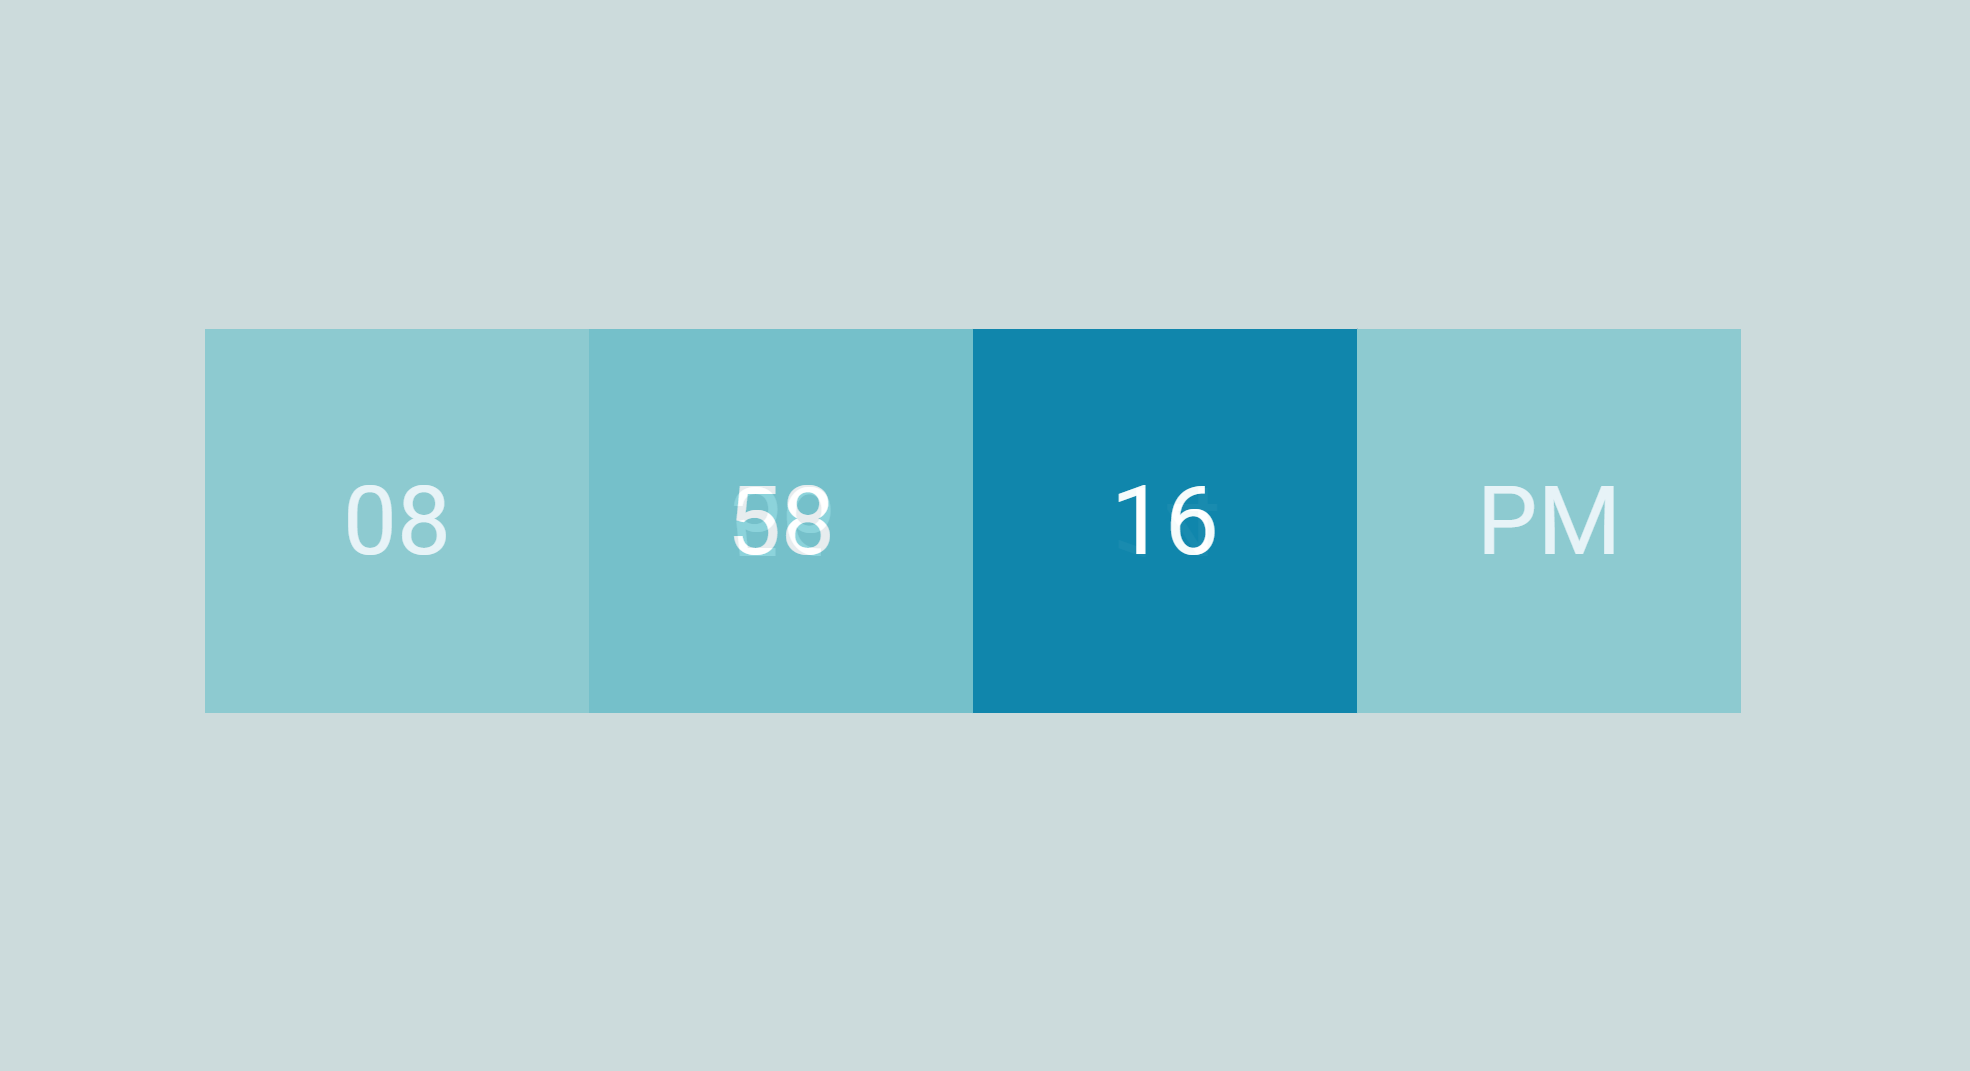
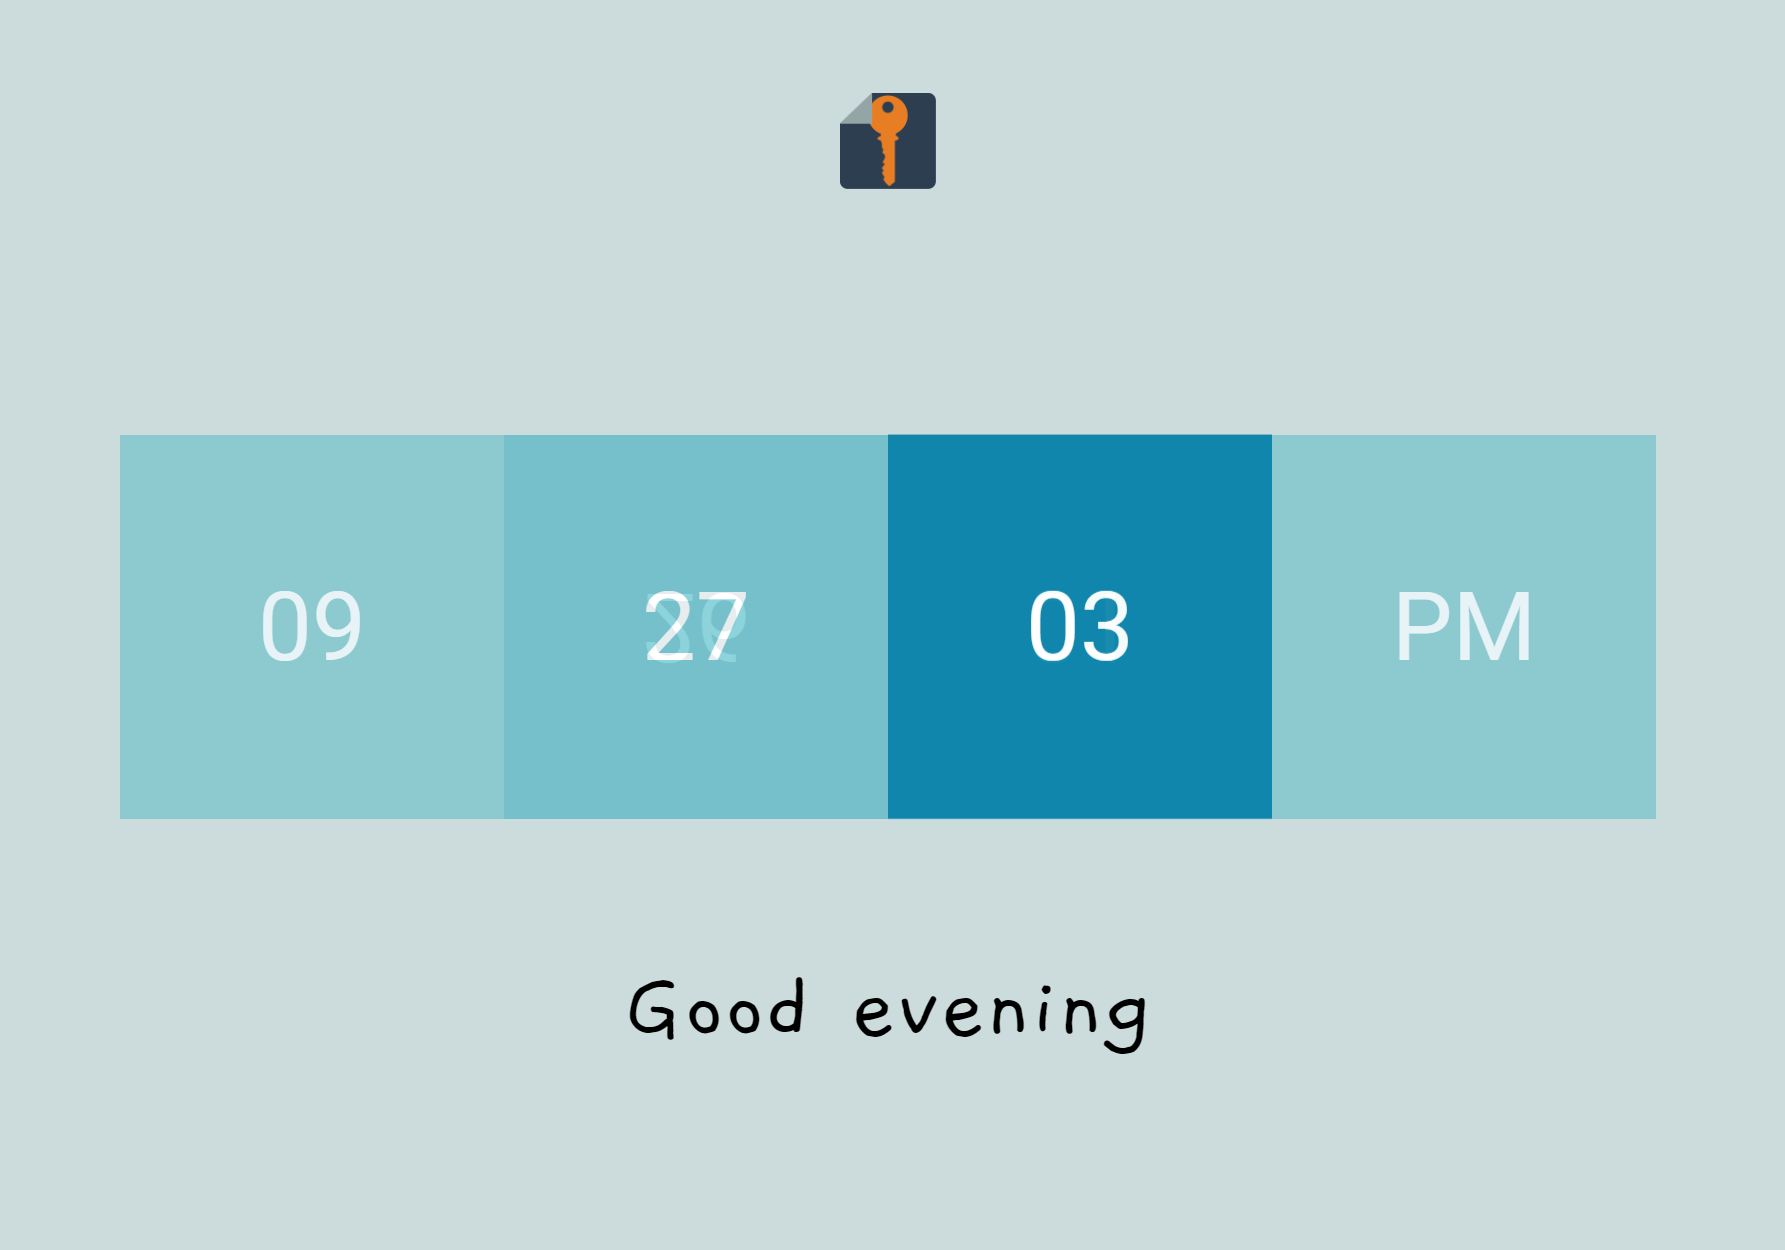
Update README

diff --git a/README.md b/README.md
@@ -1,1 +1,25 @@
-Cubert the Cute Clock
+# react-clock
+
+This is a React.js clock that uses 3D cubes to tell time. I used it as a mini-project to learn React.js in a hurry and make something cool.
+
+![Clock](_docs/readme.png)
+
+# How It Works
+
+The cube is formed using CSS 3D transform. Each rotation of the cube is applied to the `.cube` class, which contains 4 `.face` divs. The `transform` is set for each face (front, back, top, and bottom), and it stays the same all the time. The only thing rotating is the `.cube` class.
+
+Each face is blank when the cube is created. The initial value is passed as a prop and assigned to the `.face-front` face. Then, every time the cube is assigned a new value via its `change()` method, it checks if there is a change in value. If there is, the cube will assign the new value to whichever face is next in line and rotate forward 90 degrees.
+
+The line `transition: 0.5s all;` in the `.cube` class is responsible for the smooth rotation.
+
+The project is mobile-friendly thanks to a few media queries at the end of [App.css](src/App.css).
+
+Finally, a random phrase is assigned depending on the time of day. There is an array of phrases for morning, afternoon, and evening.
+
+# Fonts
+
+The clock uses Google's [Roboto font](https://fonts.google.com/specimen/Roboto). The phrases use [Gaegu](https://fonts.google.com/specimen/Gaegu).
+
+# Fun Fact
+
+The original name of this little guy was Cubert the Cute Clock.
